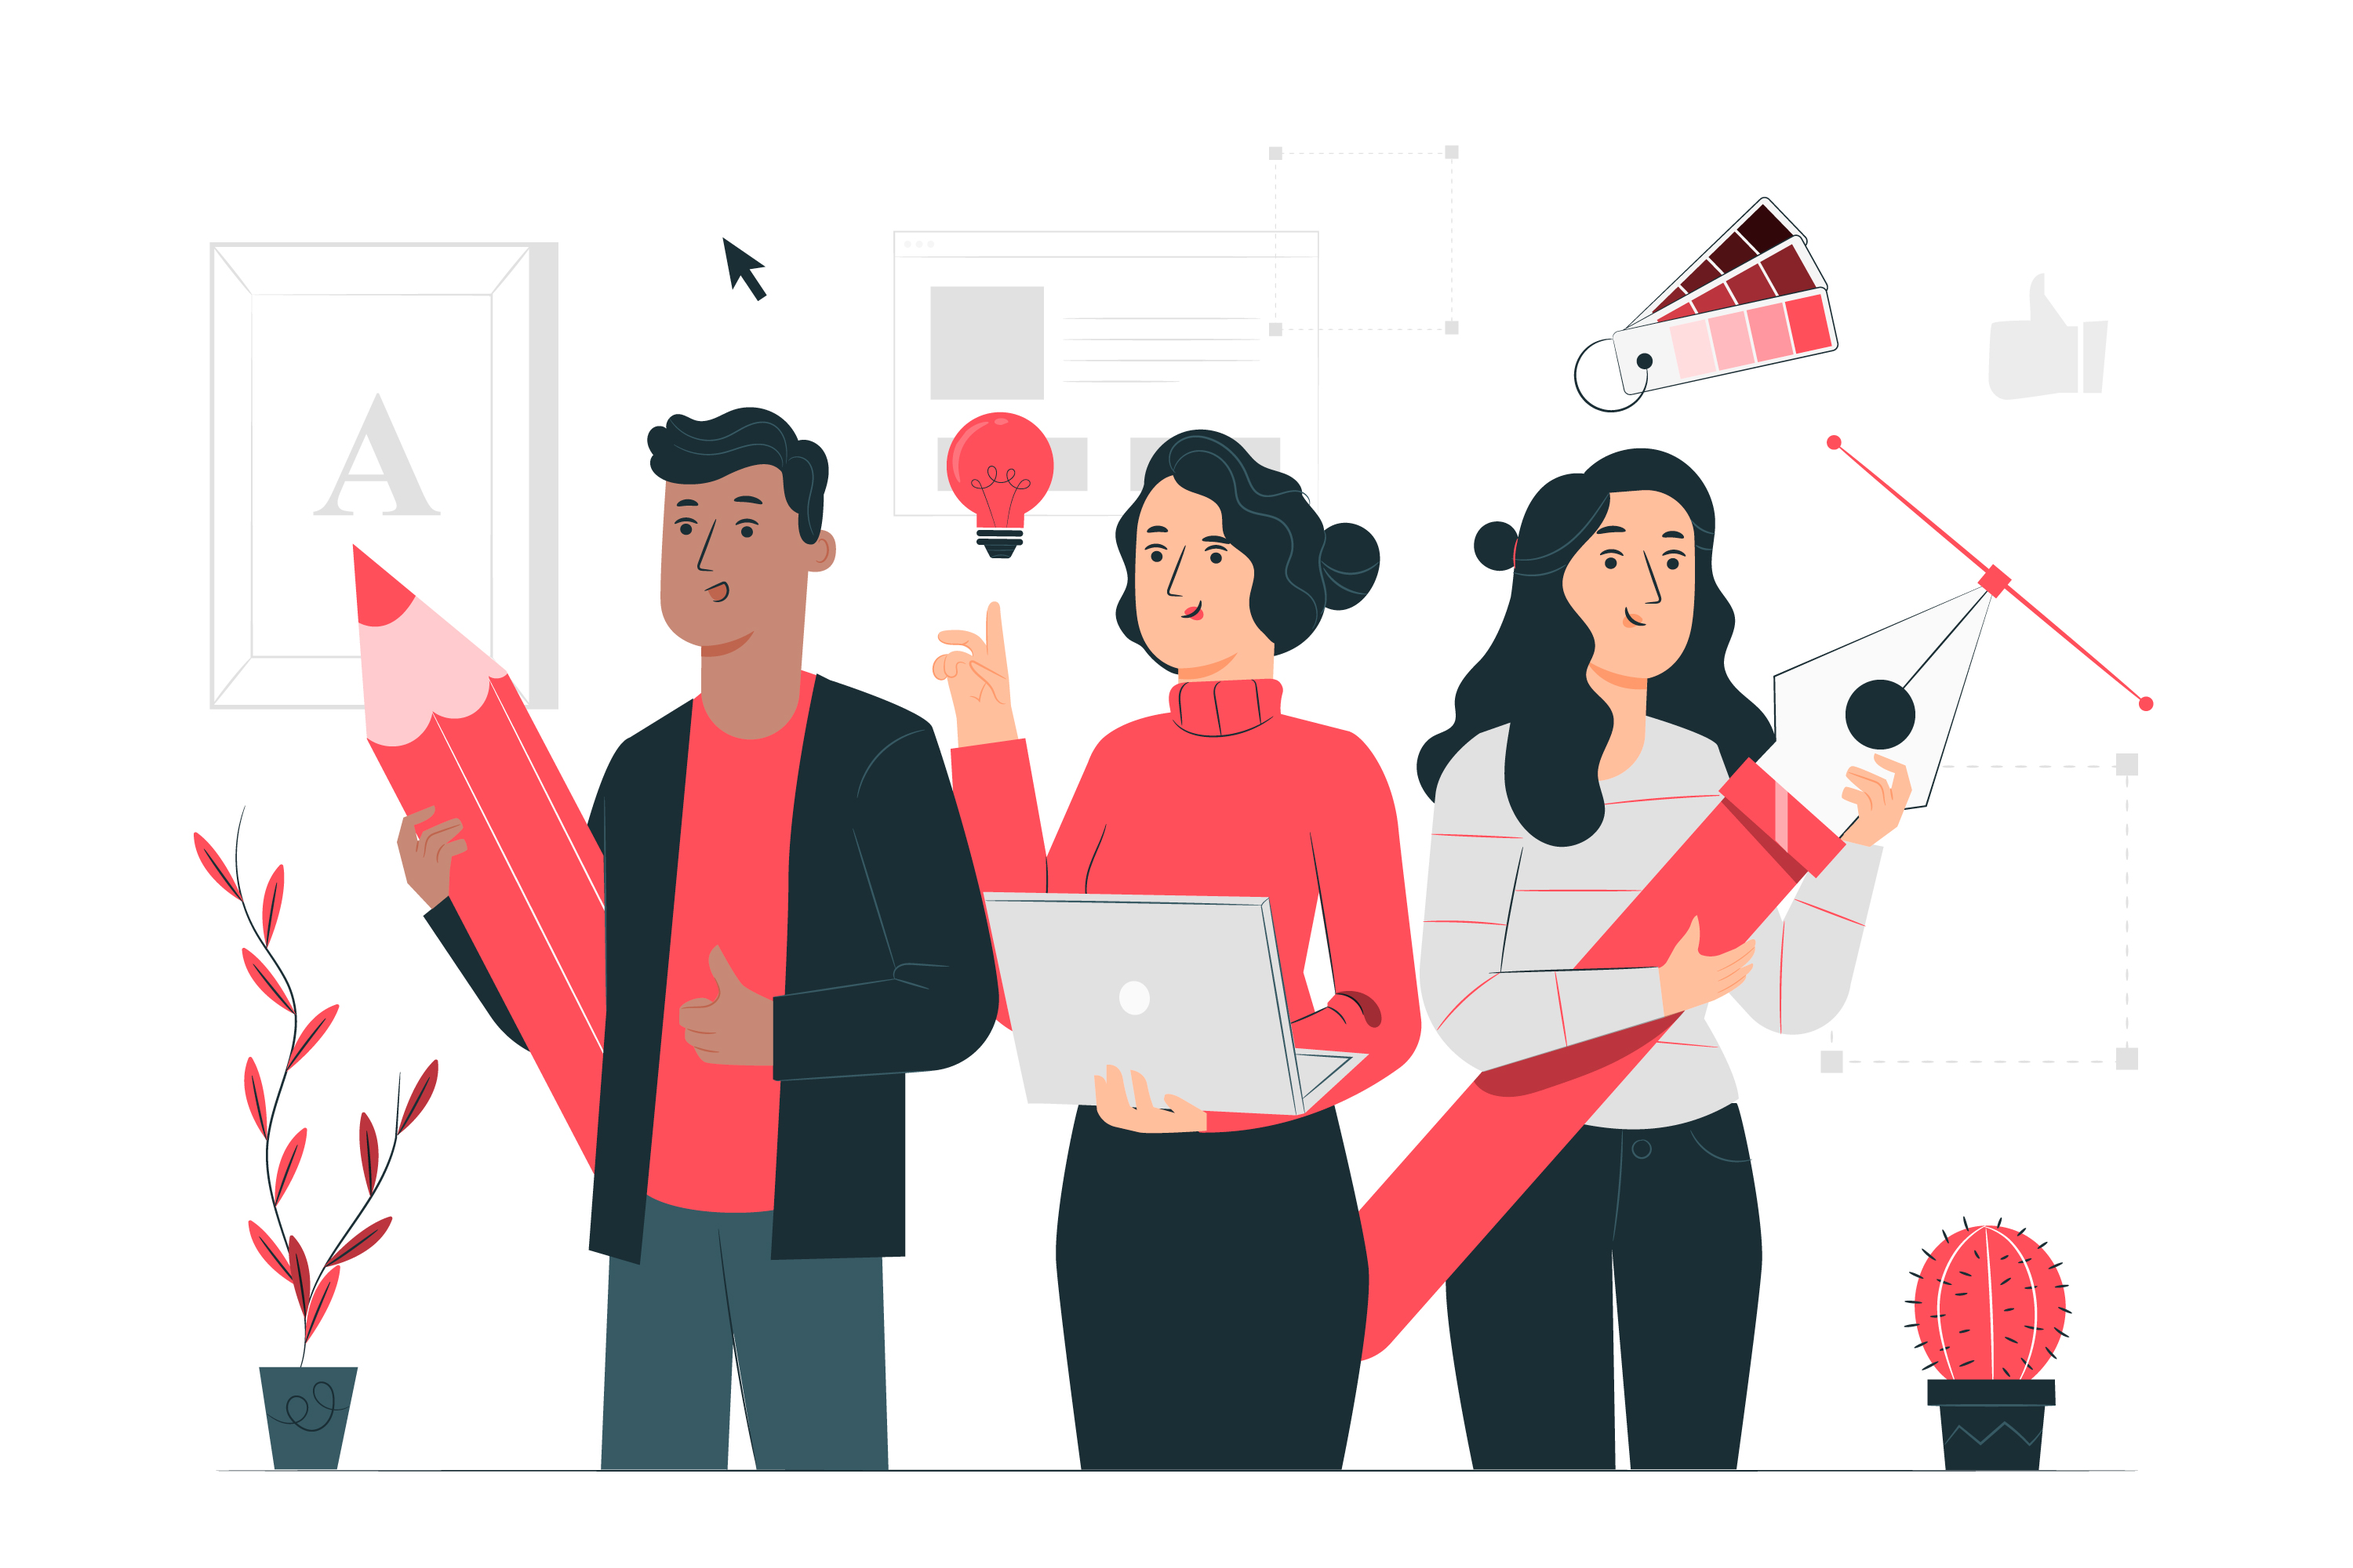
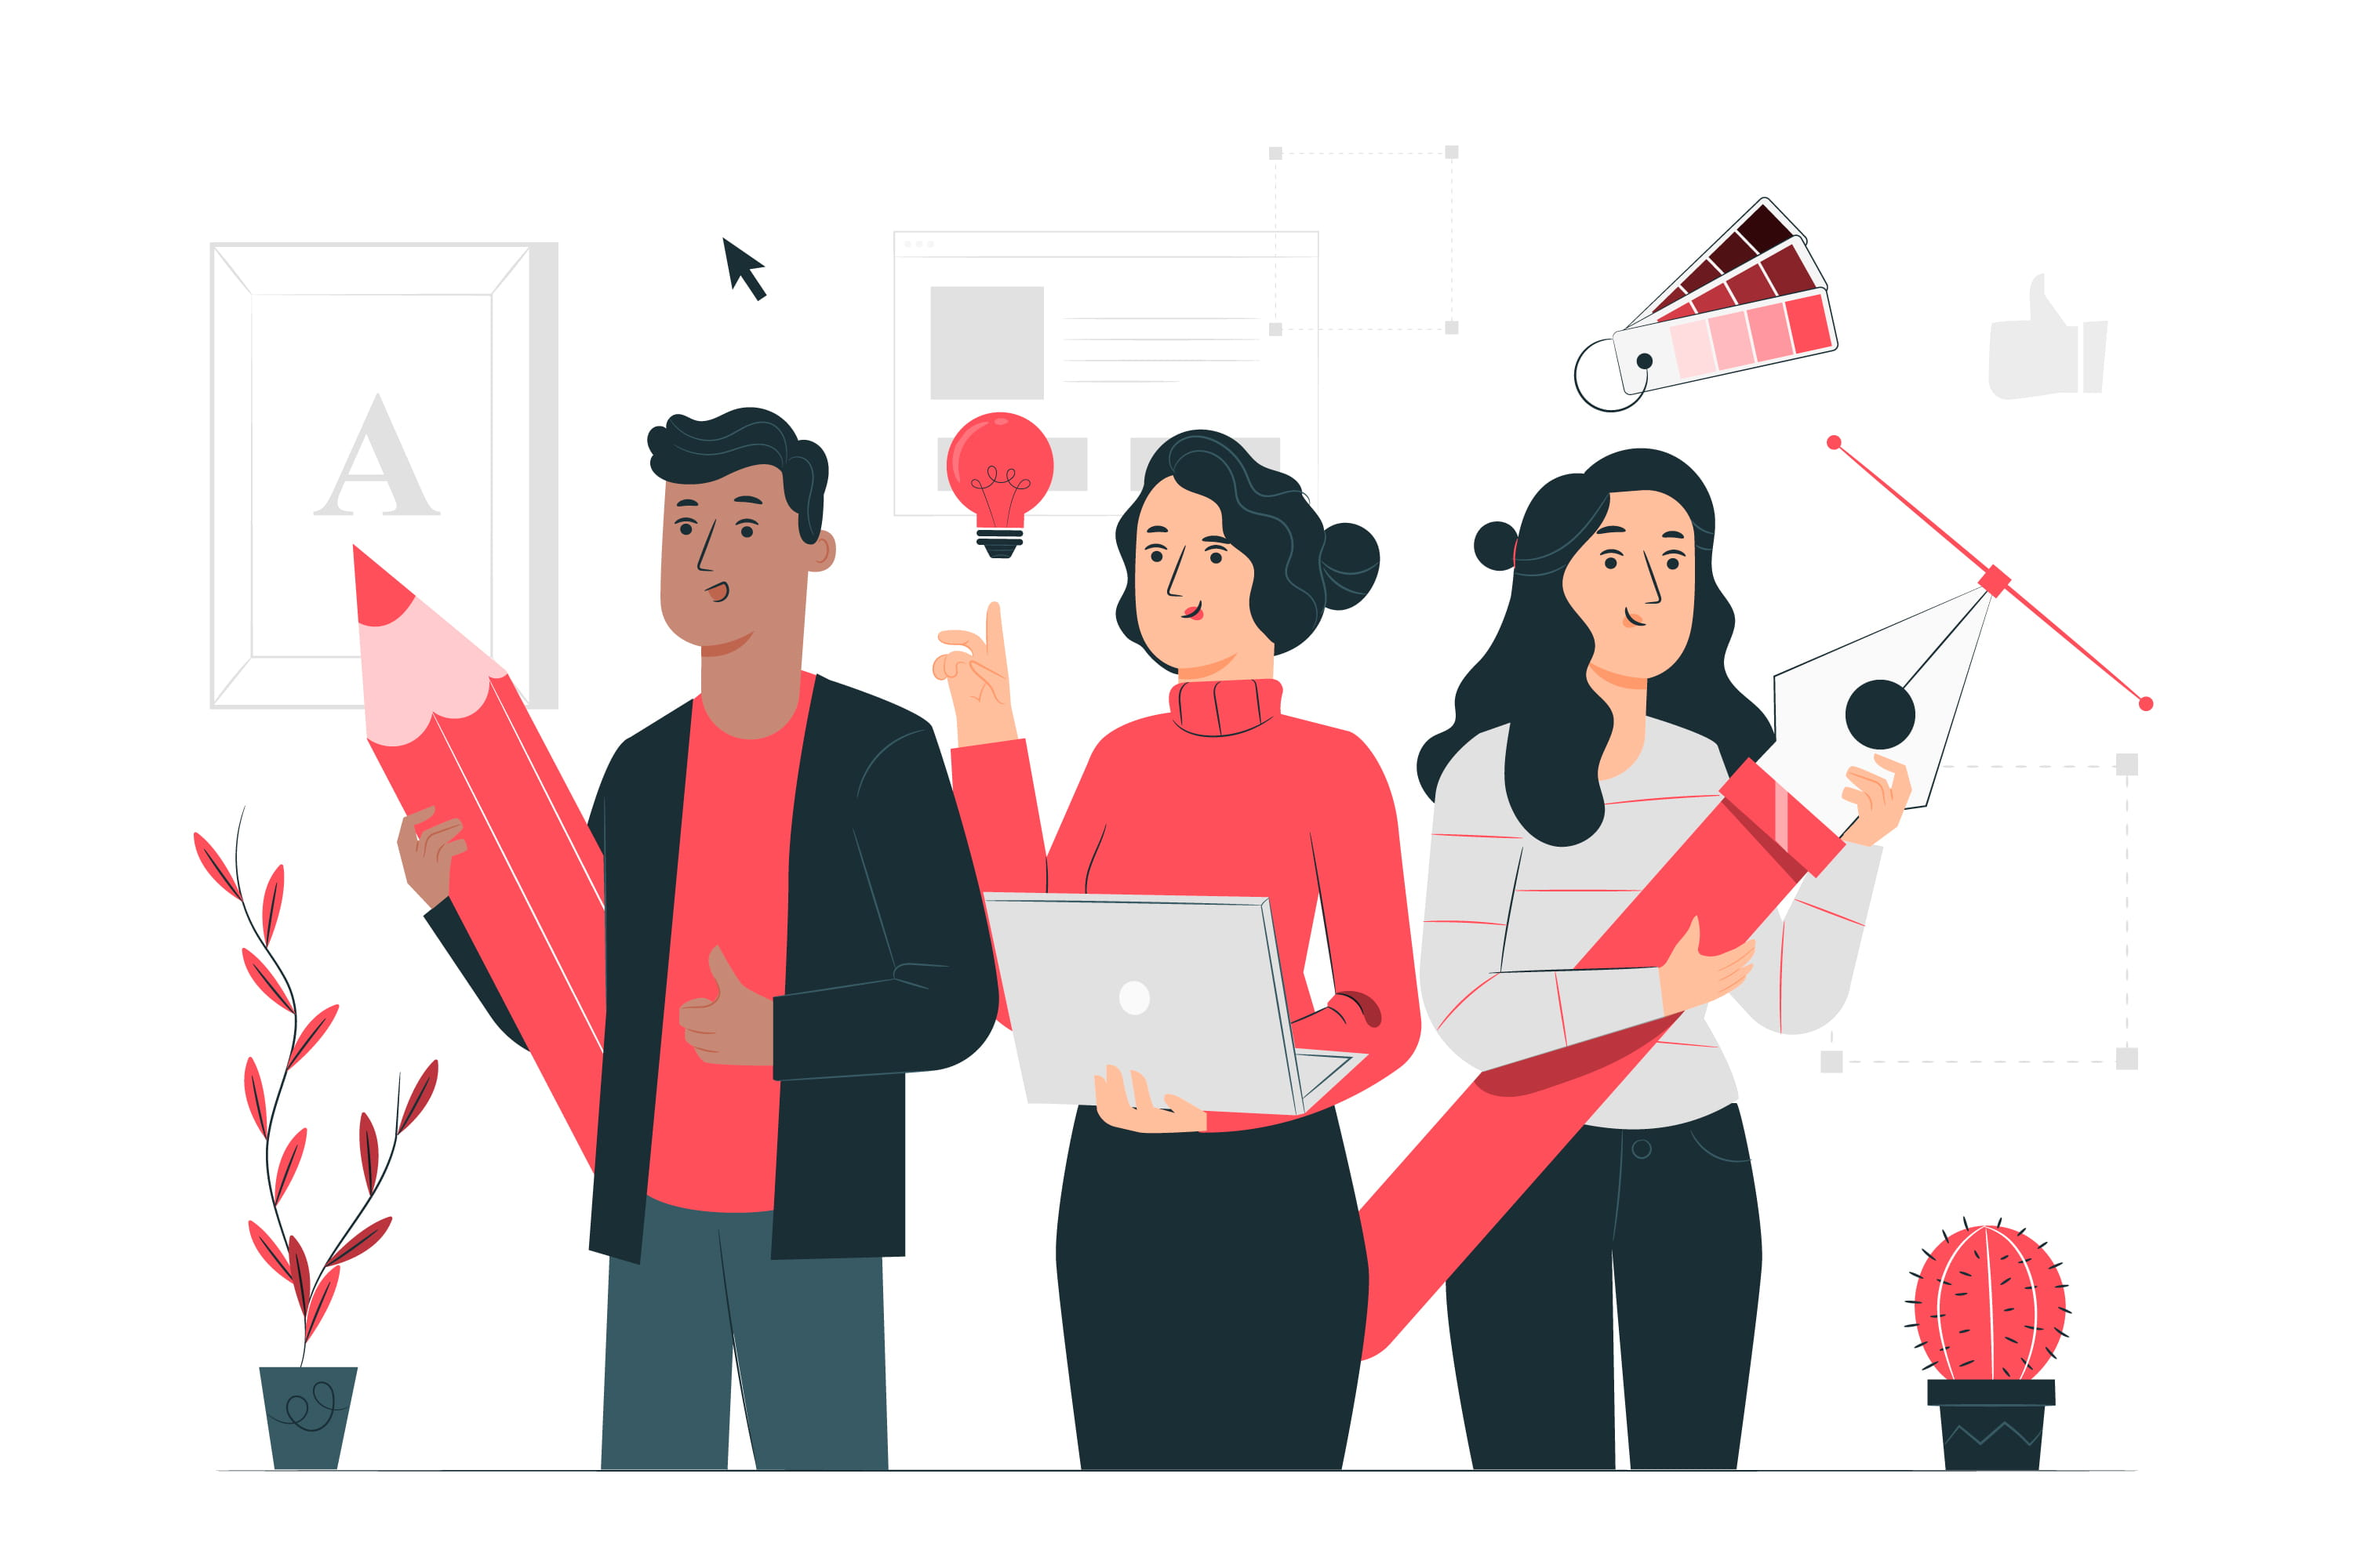
squeeze images

diff --git a/src/views/auth/SignupView.vue b/src/views/auth/SignupView.vue
@@ -1,6 +1,8 @@
 <template>
   <div class="signup">
-    <div class="img-container"></div>
+    <div class="img-container">
+      <img src="@/assets/images/login.jpg" alt="">
+    </div>
     <div class="form-container">
       <h2>Создайте аккаунт</h2>
       <div class="sign-btns">
@@ -25,6 +27,7 @@
             :type="passwordBool ? 'text' : 'password'"
             v-model="password"
             placeholder="Пароль"
+            autocomplete="on"
             required
           />
           <font-awesome-icon
@@ -105,7 +108,7 @@ const handleGithubSignin = async () => {
   margin: 4rem;
 
   @include respond(tab-land) {
-    grid-template-columns: 1fr 1fr;
+    grid-template-columns: 5fr 4fr;
   }
 
   @include respond(tab-port) {
@@ -118,10 +121,12 @@ const handleGithubSignin = async () => {
 
 
   .img-container {
-    background-image: url("@/assets/images/login.jpg");
-    background-size: cover;
-    background-repeat: no-repeat;
-    background-position: center center;
+
+    img {
+      height: 100%;
+      width: 100%;
+      object-fit: cover;
+    }
 
     @include respond(tab-port) {
       display: none;

diff --git a/src/components/TipTap/SubmitForm.vue b/src/components/TipTap/SubmitForm.vue
@@ -256,8 +256,7 @@ watch(props, () => {
   // set drafts once when data is available
   if (props.postToSetDraft && !posted.value) {
     posted.value = true
-    console.log('c',posted.value);
-    console.log("postToSetDraft available");
+    // console.log("postToSetDraft available");
     let post = props.postToSetDraft;
     title.value = post.title;
     tags.value = post.tags;
@@ -266,7 +265,7 @@ watch(props, () => {
   // set post to update once when data is available
   if (props.postToUpdate && !posted.value) {
     posted.value = true
-    console.log("postToUpdate available");
+    // console.log("postToUpdate available");
     let post = props.postToUpdate;
     title.value = post.title;
     tags.value = post.tags;

diff --git a/src/views/HomeView.vue b/src/views/HomeView.vue
@@ -6,11 +6,13 @@
       <Posts :posts="posts" />
     </div>
   </div>
+  <Footer/>
 </template>
 
 <script lang="ts" setup>
 import Hero from "@/components/Hero/Hero.vue";
 import Posts from "@/components/Posts/Posts.vue";
+import Footer from '@/components/Footer/Footer.vue'
 
 import getPosts from "@/composables/firestore/getPosts";
 

diff --git a/src/composables/firestore/getPosts.ts b/src/composables/firestore/getPosts.ts
@@ -1,6 +1,6 @@
 import { ref, watchEffect } from "vue";
 
-import { db } from "@/firebase/config.ts";
+import { db } from "@/firebase/config";
 import { collection, onSnapshot, orderBy, query } from "firebase/firestore";
 import { Post } from "@/assets/Types";
 

diff --git a/src/views/auth/SigninView.vue b/src/views/auth/SigninView.vue
@@ -17,6 +17,7 @@
             class="input"
             v-model="password"
             placeholder="Пароль"
+            autocomplete="on"
             required
           />
           <font-awesome-icon

diff --git a/src/views/posts/AllPostsView.vue b/src/views/posts/AllPostsView.vue
@@ -3,7 +3,7 @@
     <Posts :posts="posts" v-if="posts" />
     <Loading v-else />
   </div>
-  <Footer/>
+  <Footer v-if="posts"/>
 </template>
 
 <script lang="ts" setup>

diff --git a/src/composables/firestore/useDocument.ts b/src/composables/firestore/useDocument.ts
@@ -1,5 +1,5 @@
 import { ref } from "vue";
-import { db } from "@/firebase/config.ts";
+import { db } from "@/firebase/config";
 import {
   addDoc,
   collection,
